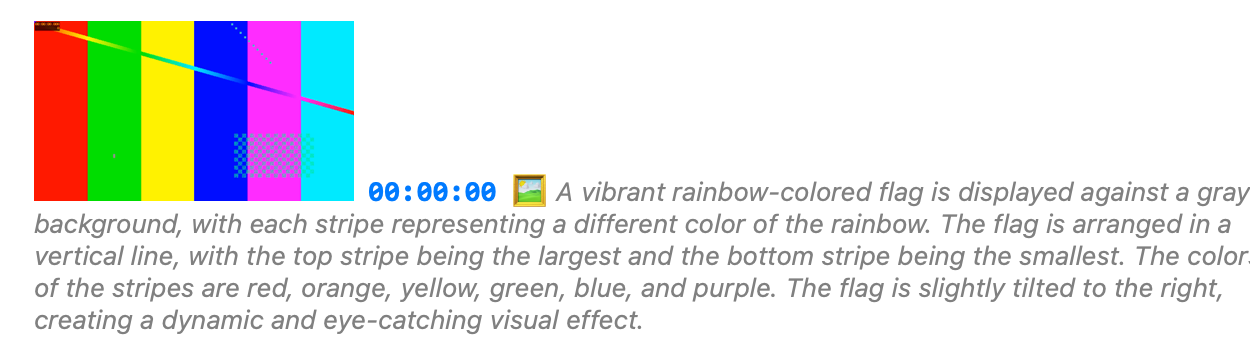
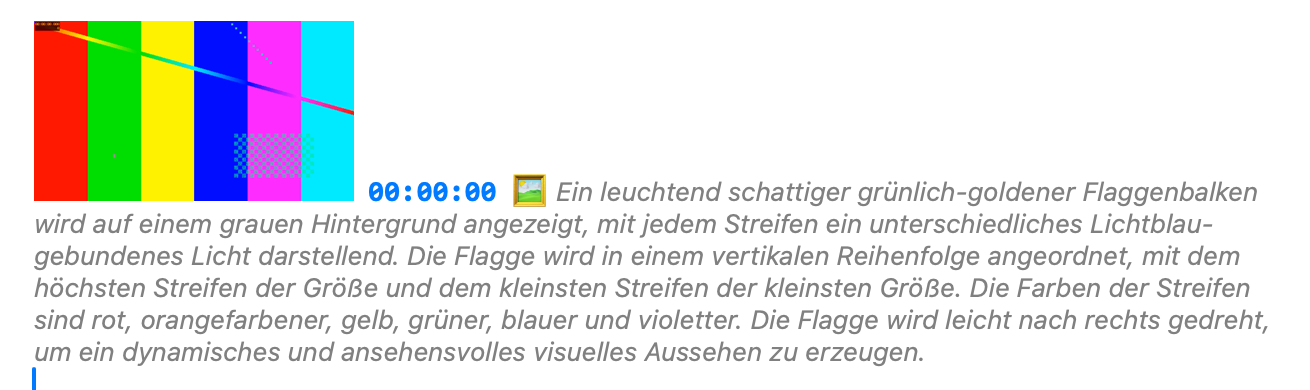
Add German translation for AI image descriptions
moondream (the vision model) can't produce reliable German on its own
(empty or garbled output), so descriptions are now translated with a
second, small local model (qwen2.5:1.5b) after the English description
comes back. Falls back to the English text if translation fails.

Also: the status-check timeout was bumped and given a single silent
retry, and describe()/translateToGerman() timeouts were raised to
120s — cold-loading a model into Ollama can take a while on memory-
constrained machines, and that's not the same thing as the server
being down.

Changed region(s): [[0.0, 0.0294, 1.0, 1.0]]

diff --git a/Sources/Sighting/VisionDescriptionService.swift b/Sources/Sighting/VisionDescriptionService.swift
@@ -1,15 +1,19 @@
 import AppKit
 
 /// Erzeugt Bildbeschreibungen von Video-Standbildern lokal über Ollama
-/// (Vision-Language-Modell, Standard: `moondream`). Reines Add-on: ohne
-/// installiertes/laufendes Ollama bleibt die Funktion inert und zeigt nur
-/// einen Einrichtungshinweis — der Rest der App bleibt unberührt.
+/// (Vision-Language-Modell `moondream`) und übersetzt sie anschließend mit
+/// einem zweiten, kleinen Textmodell (`qwen2.5:1.5b`) ins Deutsche — das
+/// englisch-zentrierte Vision-Modell selbst kann kein zuverlässiges Deutsch.
+/// Reines Add-on: ohne installiertes/laufendes Ollama bleibt die Funktion
+/// inert und zeigt nur einen Einrichtungshinweis — der Rest der App bleibt
+/// unberührt.
 final class VisionDescriptionService: ObservableObject {
     @Published var isDescribing = false
     @Published var isPullingModel = false
     @Published var lastError: String?
 
-    static let model = "moondream"
+    static let visionModel = "moondream"
+    static let translationModel = "qwen2.5:1.5b"
     private static let baseURL = URL(string: "http://127.0.0.1:11434")!
 
     static func findExecutable(_ name: String) -> String? {
@@ -26,25 +30,45 @@ final class VisionDescriptionService: ObservableObject {
 
     // MARK: Status
 
-    /// Prüft asynchron, ob der Ollama-Server läuft und das Vision-Modell
-    /// vorhanden ist. `running` unterscheidet "Server nicht erreichbar" von
-    /// "Server läuft, Modell fehlt noch" für eine präzisere Fehlermeldung.
-    func checkStatus(completion: @escaping (_ modelReady: Bool, _ serverRunning: Bool) -> Void) {
+    /// Welche der beiden benötigten Modelle fehlen noch?
+    struct ModelStatus {
+        var serverRunning = false
+        var visionReady = false
+        var translationReady = false
+        var allReady: Bool { serverRunning && visionReady && translationReady }
+    }
+
+    /// Prüft asynchron, ob der Ollama-Server läuft und beide Modelle
+    /// (Bildbeschreibung + Übersetzung) vorhanden sind. Ollama antwortet auf
+    /// diesen Endpunkt gelegentlich mit spürbarer Verzögerung (z. B. während
+    /// es intern ein Modell lädt/entlädt) — ein einzelner stiller Retry
+    /// vermeidet dadurch verursachte falsche "läuft nicht"-Meldungen.
+    func checkStatus(completion: @escaping (ModelStatus) -> Void) {
+        checkStatusOnce { [weak self] status in
+            if status.serverRunning {
+                completion(status)
+            } else {
+                self?.checkStatusOnce(completion: completion)
+            }
+        }
+    }
+
+    private func checkStatusOnce(completion: @escaping (ModelStatus) -> Void) {
         var request = URLRequest(url: Self.baseURL.appendingPathComponent("api/tags"))
-        // Ein nicht laufender Server verweigert die Verbindung praktisch
-        // sofort — ein großzügiges Timeout kostet in dem Fall also nichts,
-        // vermeidet aber falsche Fehlalarme beim ersten Request nach
-        // App-Start (kurze Verzögerung durch Netzwerk-Stack-Warmup).
-        request.timeoutInterval = 6
+        request.timeoutInterval = 10
         URLSession.shared.dataTask(with: request) { data, _, error in
             guard let data, error == nil,
                   let root = try? JSONSerialization.jsonObject(with: data) as? [String: Any],
                   let models = root["models"] as? [[String: Any]] else {
-                DispatchQueue.main.async { completion(false, false) }
+                DispatchQueue.main.async { completion(ModelStatus()) }
                 return
             }
-            let names = models.compactMap { ($0["name"] as? String)?.split(separator: ":").first.map(String.init) }
-            DispatchQueue.main.async { completion(names.contains(Self.model), true) }
+            let names = Set(models.compactMap { ($0["name"] as? String) })
+            var status = ModelStatus()
+            status.serverRunning = true
+            status.visionReady = names.contains { $0.hasPrefix(Self.visionModel) }
+            status.translationReady = names.contains { $0.hasPrefix(Self.translationModel) }
+            DispatchQueue.main.async { completion(status) }
         }.resume()
     }
 
@@ -59,7 +83,7 @@ final class VisionDescriptionService: ObservableObject {
 
     // MARK: Modell laden
 
-    func pullModel(completion: @escaping (Bool) -> Void) {
+    func pullModel(_ name: String, completion: @escaping (Bool) -> Void) {
         guard !isPullingModel else { return }
         isPullingModel = true
         lastError = nil
@@ -68,7 +92,7 @@ final class VisionDescriptionService: ObservableObject {
         request.httpMethod = "POST"
         request.timeoutInterval = 1800
         request.setValue("application/json", forHTTPHeaderField: "Content-Type")
-        request.httpBody = try? JSONSerialization.data(withJSONObject: ["name": Self.model, "stream": false])
+        request.httpBody = try? JSONSerialization.data(withJSONObject: ["name": name, "stream": false])
 
         URLSession.shared.dataTask(with: request) { [weak self] _, response, error in
             DispatchQueue.main.async {
@@ -101,15 +125,18 @@ final class VisionDescriptionService: ObservableObject {
 
         var request = URLRequest(url: Self.baseURL.appendingPathComponent("api/generate"))
         request.httpMethod = "POST"
-        request.timeoutInterval = 60
+        // Wenn Ollama das Modell gerade erst (neu) laden muss, kann allein das
+        // je nach Arbeitsspeicherauslastung ~15-20s dauern, bevor überhaupt
+        // mit der eigentlichen Inferenz begonnen wird — großzügig bemessen.
+        request.timeoutInterval = 120
         request.setValue("application/json", forHTTPHeaderField: "Content-Type")
         // moondream ist ein kleines, englisch-zentriertes 1B-Modell: es reagiert
         // empfindlich auf Prompt-Formulierung (deutsche oder längere/komplexere
         // Prompts liefern zuverlässig leere oder kaputte Antworten) — nur der
-        // schlichte, kurze englische Prompt funktioniert stabil. Die
-        // Beschreibung erscheint dadurch auf Englisch statt auf Deutsch.
+        // schlichte, kurze englische Prompt funktioniert stabil. Die englische
+        // Ausgabe wird anschließend separat über translate(_:) eingedeutscht.
         let body: [String: Any] = [
-            "model": Self.model,
+            "model": Self.visionModel,
             "prompt": "Describe this image briefly.",
             "images": [jpeg.base64EncodedString()],
             "stream": false,
@@ -142,6 +169,51 @@ final class VisionDescriptionService: ObservableObject {
                     return
                 }
                 completion(.success(text.trimmingCharacters(in: .whitespacesAndNewlines)))
+            }
+        }.resume()
+    }
+
+    // MARK: Übersetzen
+
+    /// Übersetzt einen englischen Text mit einem kleinen Textmodell ins
+    /// Deutsche. Schlägt die Übersetzung fehl, liefert der Aufrufer im
+    /// Fehlerfall einfach den englischen Originaltext weiter.
+    func translateToGerman(_ text: String, completion: @escaping (Result<String, ServiceError>) -> Void) {
+        var request = URLRequest(url: Self.baseURL.appendingPathComponent("api/generate"))
+        request.httpMethod = "POST"
+        // Ollama muss ggf. vom Vision- aufs Übersetzungsmodell umschalten
+        // (Modell aus dem Speicher laden) — ebenso großzügig bemessen.
+        request.timeoutInterval = 120
+        request.setValue("application/json", forHTTPHeaderField: "Content-Type")
+        let body: [String: Any] = [
+            "model": Self.translationModel,
+            "prompt": "You are a professional English-to-German translator. Translate the following " +
+                "sentence into natural, grammatically correct German. Output ONLY the translation, " +
+                "no explanations, no quotes.\n\nSentence: \(text)",
+            "stream": false,
+        ]
+        request.httpBody = try? JSONSerialization.data(withJSONObject: body)
+
+        // Denselben Indikator wie describe() weiterlaufen lassen, damit die
+        // Werkzeugleiste während der gesamten Kette (Beschreiben + Übersetzen)
+        // durchgehend einen Ladehinweis zeigt statt zwischendurch "fertig".
+        isDescribing = true
+        URLSession.shared.dataTask(with: request) { data, _, error in
+            DispatchQueue.main.async {
+                self.isDescribing = false
+                if let error {
+                    completion(.failure(ServiceError(message: "Übersetzung fehlgeschlagen: \(error.localizedDescription)")))
+                    return
+                }
+                guard let data,
+                      let root = try? JSONSerialization.jsonObject(with: data) as? [String: Any],
+                      let translated = root["response"] as? String,
+                      !translated.isEmpty else {
+                    completion(.failure(ServiceError(message: "Übersetzung konnte nicht gelesen werden.")))
+                    return
+                }
+                completion(.success(translated.trimmingCharacters(in: .whitespacesAndNewlines)
+                    .trimmingCharacters(in: CharacterSet(charactersIn: "\""))))
             }
         }.resume()
     }

diff --git a/Sources/Sighting/SightingApp.swift b/Sources/Sighting/SightingApp.swift
@@ -217,25 +217,26 @@ struct WhisperSetupView: View {
     }
 }
 
-/// Einmaliges Setup für die optionale Bildbeschreibung (Ollama + moondream).
-/// Reines Add-on: solange Ollama nicht installiert ist, bleibt alles andere
-/// in der App unverändert nutzbar.
+/// Einmaliges Setup für die optionale Bildbeschreibung (Ollama + moondream
+/// + qwen2.5 für die deutsche Übersetzung). Reines Add-on: solange Ollama
+/// nicht installiert ist, bleibt alles andere in der App unverändert nutzbar.
 struct VisionSetupView: View {
     @EnvironmentObject var vision: VisionDescriptionService
     @EnvironmentObject var app: AppModel
     @Environment(\.dismiss) private var dismiss
 
-    @State private var modelReady: Bool?
-    @State private var serverRunning = false
+    @State private var status = VisionDescriptionService.ModelStatus()
     @State private var isChecking = true
+    @State private var currentlyPulling: String?
 
     var body: some View {
         VStack(alignment: .leading, spacing: 14) {
             Label("Bildbeschreibung einrichten", systemImage: "text.below.photo")
                 .font(.title3.weight(.semibold))
 
-            Text("Optionales Add-on: erzeugt lokal (ohne Cloud) kurze Bildbeschreibungen " +
-                 "über Ollama mit dem kompakten Vision-Modell „\(VisionDescriptionService.model)“.")
+            Text("Optionales Add-on: erzeugt lokal (ohne Cloud) kurze Bildbeschreibungen über " +
+                 "Ollama mit dem kompakten Vision-Modell „\(VisionDescriptionService.visionModel)“ " +
+                 "und übersetzt sie mit „\(VisionDescriptionService.translationModel)“ ins Deutsche.")
                 .font(.callout)
                 .foregroundStyle(.secondary)
 
@@ -244,21 +245,22 @@ struct VisionSetupView: View {
                     .fixedSize(horizontal: false, vertical: true)
             } else if isChecking {
                 ProgressView("Prüfe Ollama …").controlSize(.small)
-            } else if !serverRunning {
+            } else if !status.serverRunning {
                 Text("Ollama ist installiert, läuft aber nicht. Im Terminal starten:\n" +
                      "ollama serve\n(oder dauerhaft: brew services start ollama)")
                     .fixedSize(horizontal: false, vertical: true)
                 Button("Erneut prüfen") { check() }
-            } else if modelReady == false {
-                Text("Ollama läuft — das Modell „\(VisionDescriptionService.model)“ fehlt noch.")
-                if vision.isPullingModel {
-                    ProgressView("Lädt … (~1,7 GB, kann einige Minuten dauern)")
+            } else if !status.allReady {
+                VStack(alignment: .leading, spacing: 6) {
+                    modelRow("Bildbeschreibung (moondream, ~1,7 GB)", ready: status.visionReady)
+                    modelRow("Übersetzung (qwen2.5, ~1 GB)", ready: status.translationReady)
+                }
+                if let pulling = currentlyPulling {
+                    ProgressView("Lädt \(pulling) … (kann einige Minuten dauern)")
                         .controlSize(.small)
                 } else {
-                    Button("Modell jetzt laden (~1,7 GB)") {
-                        vision.pullModel { success in if success { check() } }
-                    }
-                    .buttonStyle(.borderedProminent)
+                    Button("Fehlende Modelle jetzt laden") { pullMissing() }
+                        .buttonStyle(.borderedProminent)
                 }
                 if let error = vision.lastError {
                     Text(error).foregroundStyle(.red).font(.caption)
@@ -271,7 +273,7 @@ struct VisionSetupView: View {
             HStack {
                 Spacer()
                 Button("Schließen") { dismiss() }
-                if vision.setupProblem == nil, modelReady == true {
+                if vision.setupProblem == nil, status.allReady {
                     Button("Bild beschreiben") {
                         dismiss()
                         app.describeCurrentFrame()
@@ -281,16 +283,40 @@ struct VisionSetupView: View {
             }
         }
         .padding(20)
-        .frame(width: 440)
+        .frame(width: 460)
         .onAppear { check() }
     }
 
-    private func check() {
+    private func modelRow(_ label: String, ready: Bool) -> some View {
+        Label(label, systemImage: ready ? "checkmark.circle.fill" : "circle")
+            .foregroundStyle(ready ? Color.green : Color.secondary)
+            .font(.callout)
+    }
+
+    private func check(completion: (() -> Void)? = nil) {
         isChecking = true
-        vision.checkStatus { ready, running in
+        vision.checkStatus { newStatus in
             isChecking = false
-            serverRunning = running
-            modelReady = ready
+            status = newStatus
+            completion?()
+        }
+    }
+
+    /// Lädt nacheinander, was noch fehlt (Vision-Modell zuerst, dann Übersetzung),
+    /// und prüft den Status nach jedem Download neu, bevor es weitergeht.
+    private func pullMissing() {
+        if !status.visionReady {
+            currentlyPulling = VisionDescriptionService.visionModel
+            vision.pullModel(VisionDescriptionService.visionModel) { _ in
+                currentlyPulling = nil
+                check { if !status.allReady { pullMissing() } }
+            }
+        } else if !status.translationReady {
+            currentlyPulling = VisionDescriptionService.translationModel
+            vision.pullModel(VisionDescriptionService.translationModel) { _ in
+                currentlyPulling = nil
+                check()
+            }
         }
     }
 }

diff --git a/Sources/Sighting/AppModel.swift b/Sources/Sighting/AppModel.swift
@@ -153,8 +153,9 @@ final class AppModel: ObservableObject {
 
     // MARK: Bildbeschreibung (Add-on über Ollama)
 
-    /// Beschreibt das aktuelle Video-Standbild per lokalem Vision-Modell und
-    /// fügt einen Notiz-Block mit Screenshot, Timecode und KI-Text an. Ohne
+    /// Beschreibt das aktuelle Video-Standbild per lokalem Vision-Modell,
+    /// übersetzt die (englische) Beschreibung ins Deutsche und fügt einen
+    /// Notiz-Block mit Screenshot, Timecode und KI-Text an. Ohne
     /// installiertes/laufendes Ollama erscheint nur ein Einrichtungshinweis —
     /// der Rest der App funktioniert unverändert.
     func describeCurrentFrame() {
@@ -166,22 +167,25 @@ final class AppModel: ObservableObject {
         guard let image = player.thumbnail(at: player.currentTime) else { return }
         let time = player.currentTime
 
-        vision.checkStatus { [weak self] modelReady, serverRunning in
+        vision.checkStatus { [weak self] status in
             guard let self else { return }
-            guard serverRunning else {
+            guard status.serverRunning else {
                 self.alertMessage = "Ollama läuft nicht. Im Terminal starten: ollama serve\n" +
                     "(oder dauerhaft: brew services start ollama)"
                 return
             }
-            guard modelReady else {
+            guard status.allReady else {
                 self.showVisionSetup = true
                 return
             }
             self.vision.describe(image: image) { result in
-                if case .success(let text) = result {
-                    self.insertDescription(text, time: time, image: image)
+                guard case .success(let englishText) = result else {
+                    return  // .failure: vision.lastError ist gesetzt und wird als Alert gezeigt
                 }
-                // .failure: vision.lastError ist gesetzt und wird als Alert gezeigt
+                self.vision.translateToGerman(englishText) { translationResult in
+                    let finalText = (try? translationResult.get()) ?? englishText
+                    self.insertDescription(finalText, time: time, image: image)
+                }
             }
         }
     }

diff --git a/docs/index.html b/docs/index.html
@@ -271,8 +271,8 @@
       </div>
       <div class="feature-card">
         <div class="icon">✨</div>
-        <h3>KI-Bildbeschreibung (Add-on)</h3>
-        <p>Optional per Ollama + moondream, komplett offline. Manuell oder als Vollautomatik bei jedem Marker — ohne Ollama bleibt der Rest der App unverändert.</p>
+        <h3>KI-Bildbeschreibung auf Deutsch (Add-on)</h3>
+        <p>Optional per Ollama, komplett offline — beschreibt Standbilder und übersetzt sie automatisch ins Deutsche. Manuell oder als Vollautomatik bei jedem Marker — ohne Ollama bleibt der Rest der App unverändert.</p>
       </div>
     </div>
   </section>
@@ -314,6 +314,7 @@ brew install whisper-cpp ffmpeg
 brew install ollama
 brew services start ollama
 ollama pull moondream
+ollama pull qwen2.5:1.5b
 
 <span class="comment"># App bauen und starten</span>
 git clone https://github.com/fmatsch/sighting.git

diff --git a/README.md b/README.md
@@ -50,12 +50,13 @@ visuelles Protokoll der Sichtung.
 - **MXF/XDCAM-Unterstützung** — Broadcast-Footage (z. B. XDCAM-MXF), das AVFoundation
   nicht direkt öffnen kann, wird beim Import automatisch und verlustfrei nach .mov
   umgepackt (kein Re-Encode, nur Container-Tausch via ffmpeg)
-- **KI-Bildbeschreibung (optionales Add-on)** — beschreibt Video-Standbilder lokal per
-  [Ollama](https://ollama.com) + `moondream`; ganz ohne installiertes Ollama bleibt der
-  Rest der App unverändert nutzbar. Manuell per „Bild beschreiben“ oder als
-  **Vollautomatik**, die bei jedem gesetzten Marker automatisch eine Beschreibung anlegt.
-  Die Beschreibungen kommen auf Englisch — `moondream` ist ein sehr kleines, englisch-
-  zentriertes Modell und liefert bei deutschen Prompts unzuverlässige Ergebnisse
+- **KI-Bildbeschreibung auf Deutsch (optionales Add-on)** — beschreibt Video-Standbilder
+  lokal per [Ollama](https://ollama.com) + `moondream` und übersetzt sie automatisch mit
+  einem zweiten kleinen Modell (`qwen2.5:1.5b`) ins Deutsche; ganz ohne installiertes
+  Ollama bleibt der Rest der App unverändert nutzbar. Manuell per „Bild beschreiben“ oder
+  als **Vollautomatik**, die bei jedem gesetzten Marker automatisch eine Beschreibung
+  anlegt. Da zwei Modelle geladen werden, kann der erste Durchlauf je nach freiem
+  Arbeitsspeicher einige Sekunden bis über eine Minute dauern
 
 ## Screenshots
 
@@ -82,6 +83,7 @@ brew install whisper-cpp ffmpeg
 brew install ollama
 brew services start ollama
 ollama pull moondream
+ollama pull qwen2.5:1.5b
 ```
 
 Das Whisper-Modell (`large-v3-turbo`, ca. 1,6 GB) lädt die App beim ersten
